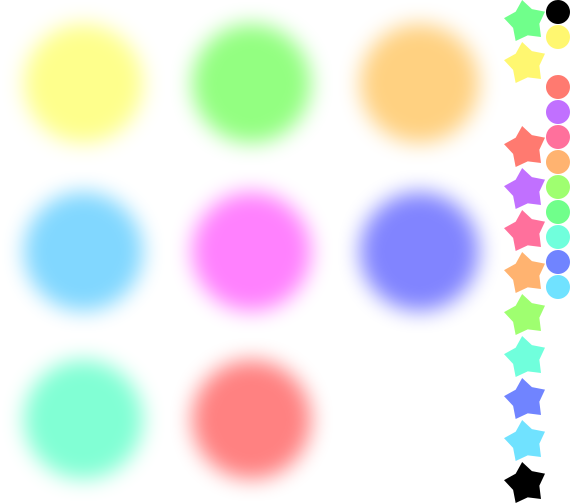
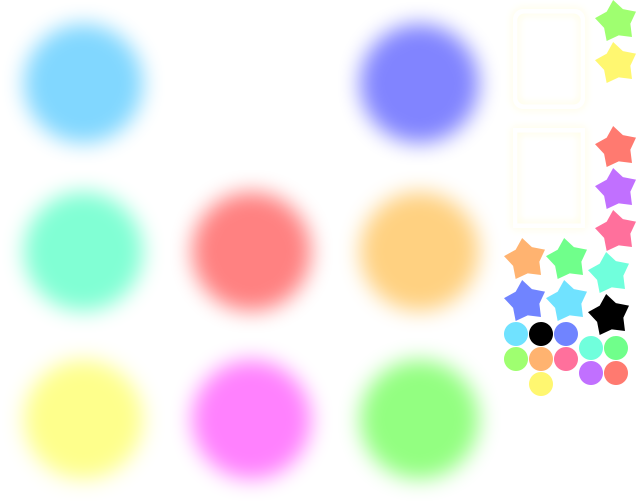
限定套卡的动效

diff --git a/Who/bin/js/bundle.js b/Who/bin/js/bundle.js
@@ -7359,6 +7359,10 @@
                     });
                 }
             }, true);
+            TimerAdmin.frameLoop(1, this, () => {
+                this.self['Guang5'].rotation += 0.7;
+                this.self['Guang6'].rotation -= 0.3;
+            });
         }
         lwgOpenAniAfter() {
             Game3D.Scene3D.active = false;
@@ -7423,6 +7427,8 @@
                 this.self['DrawDisPlay'].x = 0;
                 this.self['BtnTake'].visible = false;
                 this.self['DrawDisPlayBg'].alpha = 0;
+                this.self['Guang5'].alpha = 0;
+                this.self['Guang6'].alpha = 0;
                 for (let index = 0; index < 10; index++) {
                     Laya.timer.once(index * 100, this, () => {
                         let Card = Laya.Pool.getItemByCreateFun('Card', this.Card.create, this.Card);
@@ -7450,8 +7456,8 @@
                         Animation2D.move_Scale(Card, 0, globalPos.x, globalPos.y, x, y, 1, 200, 0, Laya.Ease.expoIn);
                         if (index == 3) {
                             Animation2D.fadeOut(this.self['DrawDisPlayBg'], 0, 0.5, 500, 0, () => {
-                                Animation2D.fadeOut(this.self['Guang5'], 0, 1, 300);
-                                Animation2D.fadeOut(this.self['Guang6'], 0, 1, 300);
+                                Animation2D.fadeOut(this.self['Guang5'], 0, 1, 500);
+                                Animation2D.fadeOut(this.self['Guang6'], 0, 1, 500);
                             });
                         }
                         else if (index == 9) {
@@ -7493,13 +7499,17 @@
                         TimerAdmin.frameRandomLoop(15, 35, this, () => {
                             for (let index = 0; index < 1; index++) {
                                 Laya.timer.once(index * 200, this, () => {
-                                    Effects.aureole_Continuous(Card, new Laya.Point(Card.width / 2, Card.height / 2), 41.5, 55, null, ['Frame/UI/ui_square_guang.png'], 0.1, 0.002);
+                                    Effects.aureole_Continuous(Card, new Laya.Point(Card.width / 2, Card.height / 2), 41.5, 55, null, ['Frame/Effects/ui_square_guang2.png'], 0.1, 0.002);
                                 });
                             }
                         }, true);
                         Animation2D.leftRight_Shake(Card, 20, 100, 300, () => {
                             Animation2D.rotate_Scale(Card, 0, 1, 1, 720, 3, 3, 400, 200, () => {
-                                Animation2D.move_Simple(ReflectPic.mask, -29, -18, 154, 180, 600, 400, Laya.Ease.expoIn);
+                                Animation2D.move_Simple(ReflectPic.getChildByName('LiuGuang'), -21, -9, 131, 180, 500, 400, () => {
+                                    Animation2D.fadeOut(ReflectPic.getChildByName('Guang'), 0, 1, 250, 0, () => {
+                                        Animation2D.fadeOut(ReflectPic.getChildByName('Guang'), 1, 0, 200, 0);
+                                    });
+                                }, Laya.Ease.expoIn);
                                 for (let index = 0; index < 5; index++) {
                                     let pointAarr = Tools.point_RandomPointByCenter(new Laya.Point(globalPos.x, globalPos.y), 200, 100);
                                     Laya.timer.once(300 * index, this, () => {
@@ -7564,7 +7574,7 @@
                         const Card = arrCard[i];
                         let globalPos = Card.localToGlobal(new Laya.Point(Card.width / 2, Card.height / 2));
                         Laya.timer.once(i * 150, this, () => {
-                            Animation2D.move_Simple(Card, globalPos.x, globalPos.y, globalPos.x, -500, 800, 0, () => {
+                            Animation2D.move_Simple(Card, globalPos.x, globalPos.y, globalPos.x, -300, 800, 0, () => {
                                 if (i == arrCard.length - 1) {
                                     anifunc();
                                 }
@@ -8024,6 +8034,63 @@
             }, true);
             TimerAdmin.frameRandomLoop(50, 80, this, () => {
                 Effects.blink_Star(this.self['StarParent3'], new Laya.Point(0, 0), 300, 50, 'Game/UI/UISkinQualified/xingxing.png', 80, 80);
+            }, true);
+            let CardParent = this.self['CardParent'];
+            TimerAdmin.frameLoop(150, this, () => {
+                for (let i = 1; i < 8; i++) {
+                    const Card = CardParent.getChildByName("Card" + i);
+                    let index0 = (i + 1) > 7 ? 1 : (i + 1);
+                    const Card0 = CardParent.getChildByName("Card" + index0);
+                    let time = 500;
+                    Animation2D.move_Simple(Card, Card.x, Card.y, Card0.x, Card0.y, time, 0, () => {
+                    });
+                    let alpha0 = 0.6;
+                    switch (i) {
+                        case 1:
+                            alpha0 = 0;
+                            break;
+                        case 7:
+                            alpha0 = 1;
+                            break;
+                        default:
+                            break;
+                    }
+                    Animation2D.fadeOut(Card, 1, alpha0, time, 0, () => {
+                        Card.name = 'Card' + index0;
+                        if (i == 7) {
+                            for (let j = 1; j < 8; j++) {
+                                const Card1 = CardParent.getChildByName("Card" + j);
+                                switch (j) {
+                                    case 1:
+                                        Card1.zOrder = 7;
+                                        break;
+                                    case 2:
+                                        Card1.zOrder = 5;
+                                        break;
+                                    case 3:
+                                        Card1.zOrder = 3;
+                                        break;
+                                    case 4:
+                                        Card1.zOrder = 1;
+                                        break;
+                                    case 5:
+                                        Card1.zOrder = 2;
+                                        break;
+                                    case 6:
+                                        Card1.zOrder = 4;
+                                        break;
+                                    case 7:
+                                        Card1.zOrder = 6;
+                                        break;
+                                    default:
+                                        break;
+                                }
+                            }
+                        }
+                        Animation2D.fadeOut(Card, alpha0, 1, time, 0, () => {
+                        });
+                    });
+                }
             }, true);
         }
         lwgAdaptive() {

diff --git a/Who/src/script/Game/UIDrawCard.ts b/Who/src/script/Game/UIDrawCard.ts
@@ -26,7 +26,6 @@ export default class UIDrawCard extends DrawCard.DrawCardScene {
             }, Laya.Ease.cubicInOut);
         }, true);
 
-
         TimerAdmin.frameRandomLoop(100, 160, this, () => {
             Effects.light_SimpleInfinite(this.self, 360, 640, 720, 1280, 0, 'Game/UI/UIDrawCard/guang2.png', 0.01);
         }, true)
@@ -56,8 +55,11 @@ export default class UIDrawCard extends DrawCard.DrawCardScene {
             }
         }, true)
 
-
         // 抽卡界面光效，直接闪烁
+        TimerAdmin.frameLoop(1, this, () => {
+            this.self['Guang5'].rotation += 0.7;
+            this.self['Guang6'].rotation -= 0.3;
+        })
     }
 
     lwgOpenAniAfter(): void {
@@ -208,19 +210,22 @@ export default class UIDrawCard extends DrawCard.DrawCardScene {
                     TimerAdmin.frameRandomLoop(15, 35, this, () => {
                         for (let index = 0; index < 1; index++) {
                             Laya.timer.once(index * 200, this, () => {
-                                Effects.aureole_Continuous(Card, new Laya.Point(Card.width / 2, Card.height / 2), 41.5, 55, null, ['Frame/UI/ui_square_guang.png'], 0.1, 0.002);
+                                Effects.aureole_Continuous(Card, new Laya.Point(Card.width / 2, Card.height / 2), 41.5, 55, null, ['Frame/Effects/ui_square_guang2.png'], 0.1, 0.002);
                             })
                         }
-
                     }, true)
                     Animation2D.leftRight_Shake(Card, 20, 100, 300, () => {
                         Animation2D.rotate_Scale(Card, 0, 1, 1, 720, 3, 3, 400, 200, () => {
-                            Animation2D.move_Simple(ReflectPic.mask, -29, -18, 154, 180, 600, 400, Laya.Ease.expoIn);
+                            Animation2D.move_Simple(ReflectPic.getChildByName('LiuGuang'), -21, -9, 131, 180, 500, 400, () => {
+                                Animation2D.fadeOut(ReflectPic.getChildByName('Guang'), 0, 1, 250, 0, () => {
+                                    Animation2D.fadeOut(ReflectPic.getChildByName('Guang'), 1, 0, 200, 0);
+                                });
+                            }, Laya.Ease.expoIn);
                             for (let index = 0; index < 5; index++) {
                                 let pointAarr = Tools.point_RandomPointByCenter(new Laya.Point(globalPos.x, globalPos.y), 200, 100);
                                 Laya.timer.once(300 * index, this, () => {
                                     Effects.createExplosion_Rotate(this.self['CardParent'], 25, pointAarr[0].x, pointAarr[0].y, 'star', 10, 10);
-                                })
+                                });
                             }
                             Animation2D.move_Scale(Card, 3, Card.x, Card.y, x, y, 1, 200, 2000, null, () => {
                                 func();
@@ -286,7 +291,7 @@ export default class UIDrawCard extends DrawCard.DrawCardScene {
                     const Card = arrCard[i];
                     let globalPos = Card.localToGlobal(new Laya.Point(Card.width / 2, Card.height / 2));
                     Laya.timer.once(i * 150, this, () => {
-                        Animation2D.move_Simple(Card, globalPos.x, globalPos.y, globalPos.x, -500, 800, 0, () => {
+                        Animation2D.move_Simple(Card, globalPos.x, globalPos.y, globalPos.x, -300, 800, 0, () => {
                             if (i == arrCard.length - 1) {
                                 anifunc();
                             }

diff --git a/Who/src/script/Game/UISkinQualified.ts b/Who/src/script/Game/UISkinQualified.ts
@@ -43,6 +43,66 @@ export default class UISkinQualified extends SkinQualified.SkinQualifiedScene {
         TimerAdmin.frameRandomLoop(50, 80, this, () => {
             Effects.blink_Star(this.self['StarParent3'], new Laya.Point(0, 0), 300, 50, 'Game/UI/UISkinQualified/xingxing.png', 80, 80);
         }, true)
+
+        let CardParent = this.self['CardParent'] as Laya.Sprite;
+
+        TimerAdmin.frameLoop(150, this, () => {
+            for (let i = 1; i < 8; i++) {
+                const Card = CardParent.getChildByName("Card" + i) as Laya.Image;
+                let index0 = (i + 1) > 7 ? 1 : (i + 1);
+                const Card0 = CardParent.getChildByName("Card" + index0) as Laya.Image;
+                let time = 500;
+                // 加个缩放
+                Animation2D.move_Simple(Card, Card.x, Card.y, Card0.x, Card0.y, time, 0, () => {
+                });
+                let alpha0 = 0.6;
+                switch (i) {
+                    case 1:
+                        alpha0 = 0;
+                        break;
+                    case 7:
+                        alpha0 = 1;
+                        break;
+                    default:
+                        break;
+                }
+                Animation2D.fadeOut(Card, 1, alpha0, time, 0, () => {
+                    Card.name = 'Card' + index0;
+                    if (i == 7) {
+                        for (let j = 1; j < 8; j++) {
+                            const Card1 = CardParent.getChildByName("Card" + j) as Laya.Image;
+                            switch (j) {
+                                case 1:
+                                    Card1.zOrder = 7;
+                                    break;
+                                case 2:
+                                    Card1.zOrder = 5;
+                                    break;
+                                case 3:
+                                    Card1.zOrder = 3;
+                                    break;
+                                case 4:
+                                    Card1.zOrder = 1;
+                                    break;
+                                case 5:
+                                    Card1.zOrder = 2;
+                                    break;
+                                case 6:
+                                    Card1.zOrder = 4;
+                                    break;
+                                case 7:
+                                    Card1.zOrder = 6;
+                                    break;
+                                default:
+                                    break;
+                            }
+                        }
+                    }
+                    Animation2D.fadeOut(Card, alpha0, 1, time, 0, () => {
+                    })
+                })
+            }
+        }, true);
     }
 
     lwgAdaptive(): void {
